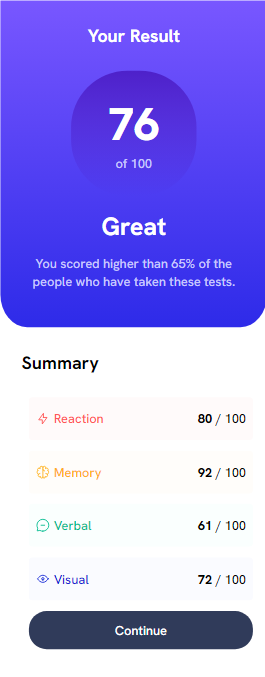
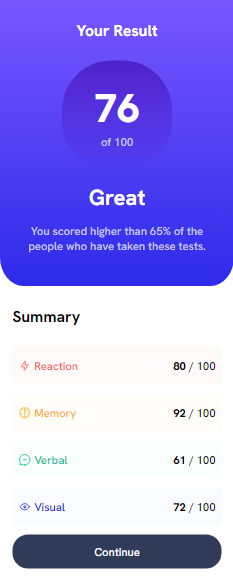
Fixing Mobile

diff --git a/style.css b/style.css
@@ -1,6 +1,7 @@
 body {
     font-family: 'Hanken Grotesk', sans-serif;
     min-height: 100vh;
+    margin: 0;
 }
 
 h1 {
@@ -180,6 +181,7 @@ h3 {
         flex-direction: column;
         box-shadow: none;
         width: 375px;
+        height: 100vh;
     }
 
     .card-left {
@@ -189,9 +191,22 @@ h3 {
 
     .card-right {
         width: auto;
+        margin: 0;
+    }
+
+    .card-right-title {
+        margin-left: 10px;
     }
 
     .description>p {
         padding: 0px 25px 0px 25px;
+    }
+
+    .button-continue {
+        margin-bottom: 2rem;
+    }
+
+    .attribution {
+        display: none;
     }
 }

diff --git a/index.html b/index.html
@@ -102,11 +102,11 @@
 
 
     </div>
-
+    
+      
   </div>
 
 
-  
   <div class="attribution">
     Challenge by <a href="https://www.frontendmentor.io?ref=challenge" target="_blank">Frontend Mentor</a>. 
     Coded by <a href="https://github.com/Goodlle94">Wiktor Bonderek</a>.
